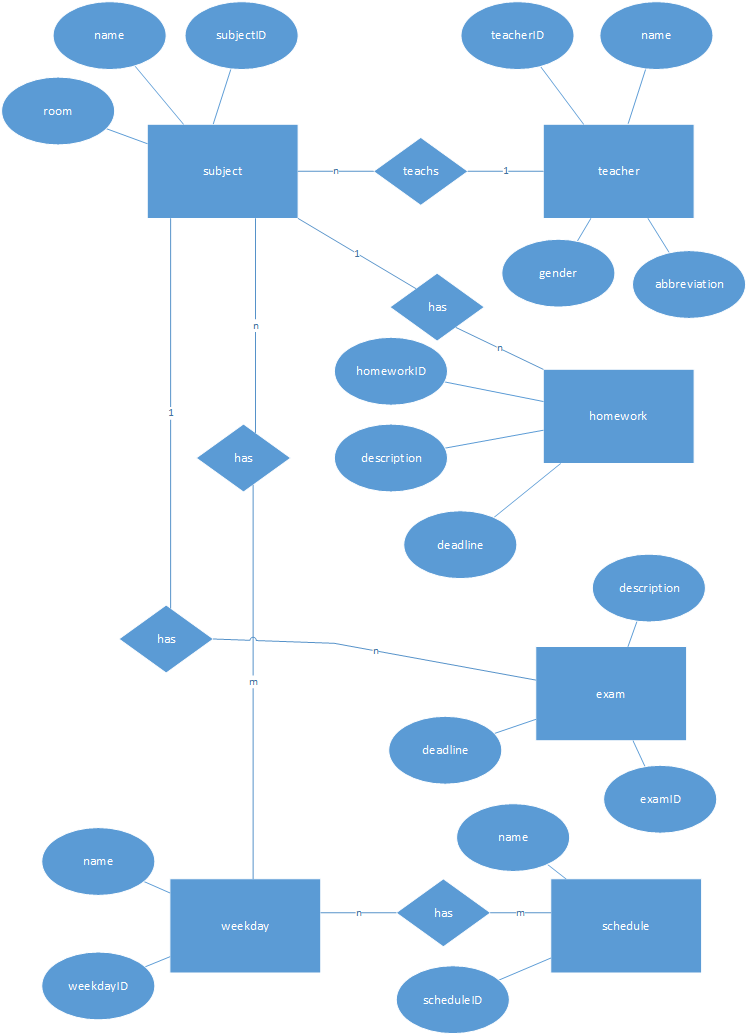
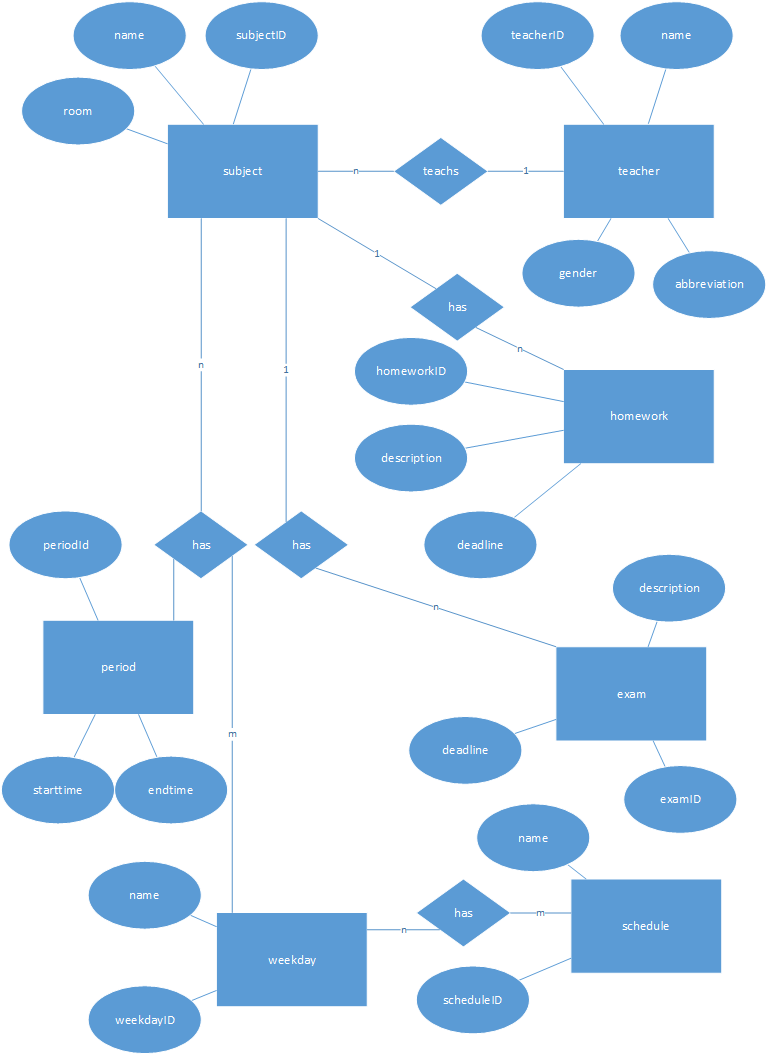
added Period table #3 #4 #6 #7

diff --git a/app/src/main/java/schmitt_florian/schoolplanner/logic/DatabaseHelperImpl.java b/app/src/main/java/schmitt_florian/schoolplanner/logic/DatabaseHelperImpl.java
@@ -60,6 +60,7 @@ public class DatabaseHelperImpl extends SQLiteOpenHelper implements DatabaseHelp
         sqLiteDatabase.execSQL("DROP TABLE " + TABLE_TEACHER);
         sqLiteDatabase.execSQL("DROP TABLE " + TABLE_HOMEWORK);
         sqLiteDatabase.execSQL("DROP TABLE " + TABLE_EXAM);
+        sqLiteDatabase.execSQL("DROP TABLE " + TABLE_PERIOD);
         sqLiteDatabase.execSQL("DROP TABLE " + TABLE_WEEKDAY);
         sqLiteDatabase.execSQL("DROP TABLE " + TABLE_SCHEDULE);
         sqLiteDatabase.execSQL("DROP TABLE " + TABLE_SUBJECTS_ON_DAY);
@@ -77,6 +78,7 @@ public class DatabaseHelperImpl extends SQLiteOpenHelper implements DatabaseHelp
         createSubjectTable(sqLiteDatabase);
         createTeacherTable(sqLiteDatabase);
         createHomeworkTable(sqLiteDatabase);
+        createPeriodTable(sqLiteDatabase);
         createExamTable(sqLiteDatabase);
         createWeekdayTable(sqLiteDatabase);
         createScheduleTable(sqLiteDatabase);
@@ -150,6 +152,20 @@ public class DatabaseHelperImpl extends SQLiteOpenHelper implements DatabaseHelp
     }
 
     /**
+     * create period table in the schoolPlanner Database
+     *
+     * @param sqLiteDatabase the schoolPlanner Database
+     */
+    private void createPeriodTable(SQLiteDatabase sqLiteDatabase) {
+        sqLiteDatabase.execSQL("CREATE TABLE " + TABLE_PERIOD + "(" +
+                PERIOD_COLUMN_ID + " INTEGER PRIMARY KEY AUTO_INCREMENT NOT NULL, " +
+                PERIOD_COLUMN_STARTTIME + " TIME NOT NULL, " +
+                PERIOD_COLUMN_ENDTIME + " TIME NOT NULL "
+        );
+        sqLiteDatabase.close();
+    }
+
+    /**
      * create weekday table in the schoolPlanner Database
      *
      * @param sqLiteDatabase the schoolPlanner Database
@@ -183,6 +199,7 @@ public class DatabaseHelperImpl extends SQLiteOpenHelper implements DatabaseHelp
     private void createSubjectsOnDayTable(SQLiteDatabase sqLiteDatabase) {
         sqLiteDatabase.execSQL("CREATE TABLE " + TABLE_SUBJECTS_ON_DAY + "(" +
                 SUBJECTS_ON_DAY_COLUMN_SUBJECT_ID + " INTEGER PRIMARY KEY NOT NULL, " +
+                SUBJECTS_ON_DAY_COLUMN_PERIOD_ID + " INTEGER PRIMARY KEY NOT NULL, " +
                 SUBJECTS_ON_DAY_COLUMN_WEEKDAY_ID + " INTEGER PRIMARY KEY NOT NULL "
         );
         sqLiteDatabase.close();

diff --git a/app/src/main/java/schmitt_florian/schoolplanner/logic/DatabaseHelper.java b/app/src/main/java/schmitt_florian/schoolplanner/logic/DatabaseHelper.java
@@ -168,6 +168,39 @@ interface DatabaseHelper {
     String EXAM_COLUMN_DEADLINE = "exam_deadline";
     //endregion
 
+    //region period table
+    /**
+     * name of the period table as String
+     */
+    String TABLE_PERIOD = "period";
+
+
+    /**
+     * integer, primary key, autoincrement, not null
+     * <br> </br>
+     * name of the id column in the period table as String
+     */
+    String PERIOD_COLUMN_ID = "period_id";
+
+    /**
+     * time, not null
+     * <br> </br>
+     * HH-MM-SS
+     * <br> </br>
+     * name of the startTime column in the exam table as String
+     */
+    String PERIOD_COLUMN_STARTTIME = "period_starttime";
+
+    /**
+     * time, not null
+     * <br> </br>
+     * HH-MM-SS
+     * <br> </br>
+     * name of the endTime column in the exam table as String
+     */
+    String PERIOD_COLUMN_ENDTIME = "period_endtime";
+    //endregion
+
     //region weekday table
     /**
      * name of the weekday table as String
@@ -227,6 +260,13 @@ interface DatabaseHelper {
      * name of the subjectId column in the subjectsOnDay table as String
      */
     String SUBJECTS_ON_DAY_COLUMN_SUBJECT_ID = "subjects_on_day_subject_id";
+
+    /**
+     * integer, primary key, foreign key, not null
+     * <br> </br>
+     * name of the periodId column in the subjectsOnDay table as String
+     */
+    String SUBJECTS_ON_DAY_COLUMN_PERIOD_ID = "subjects_on_day_period_id";
 
     /**
      * integer, primary key, foreign key, not null
